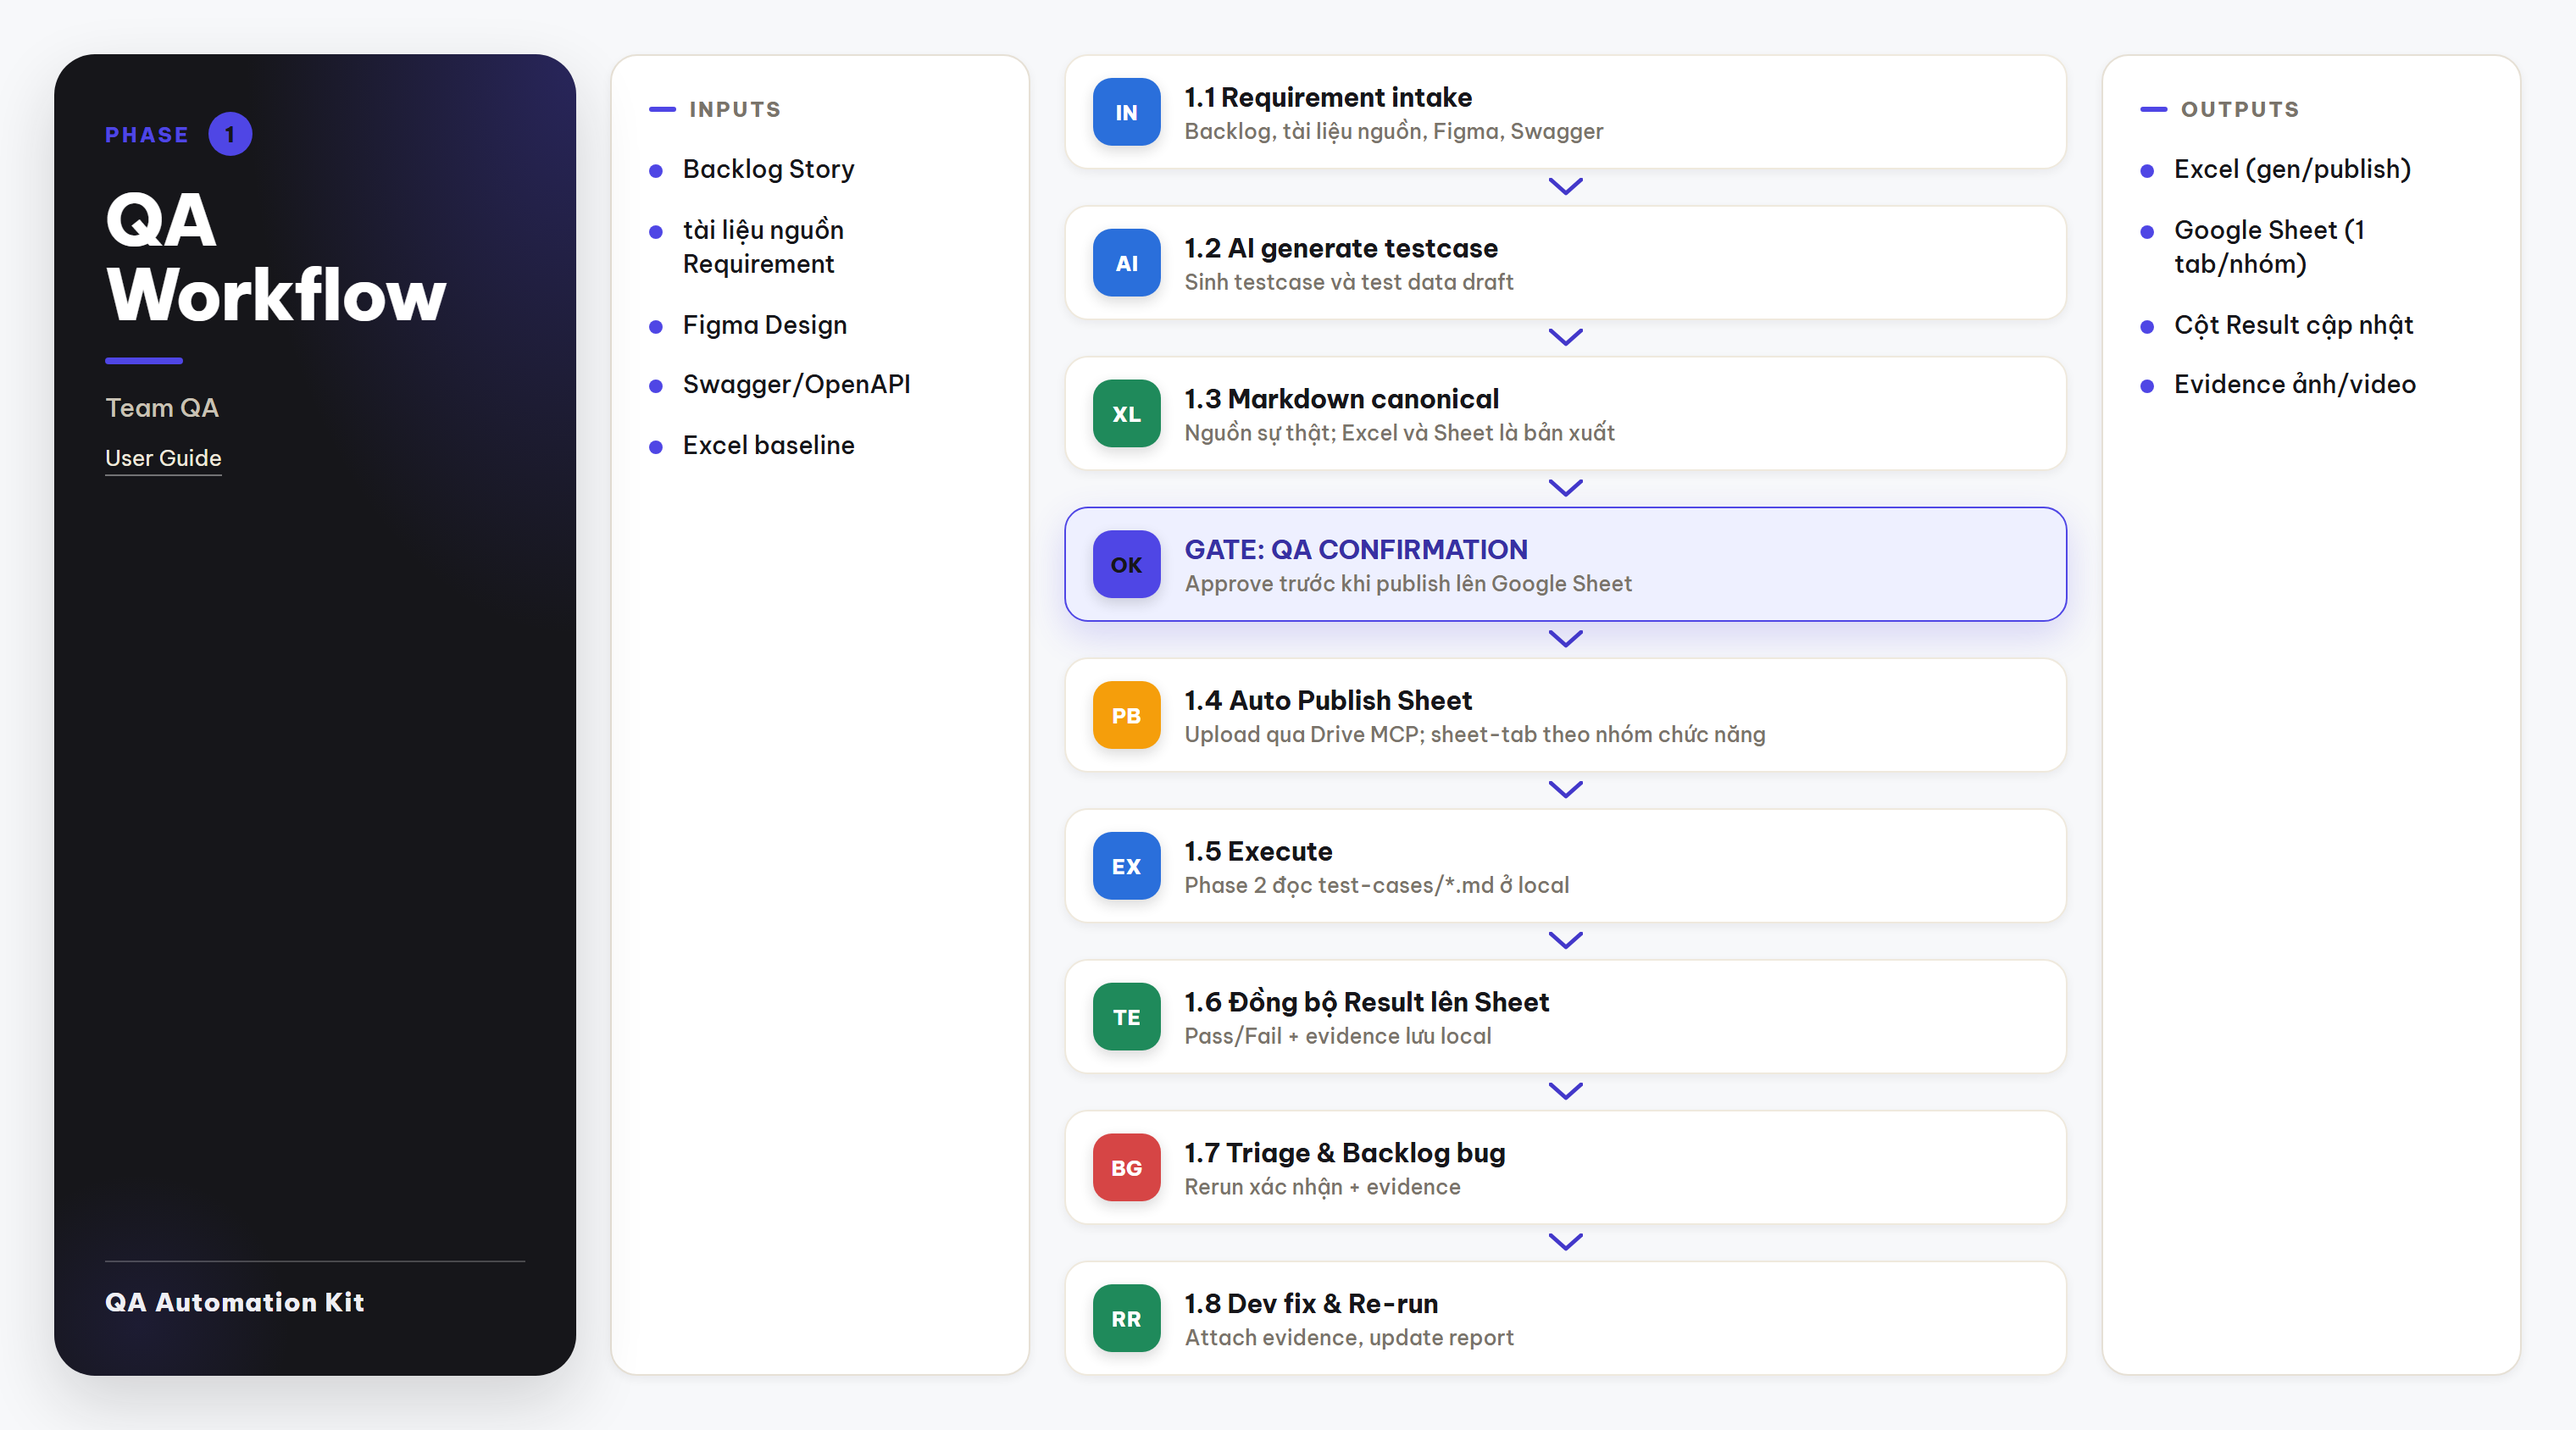
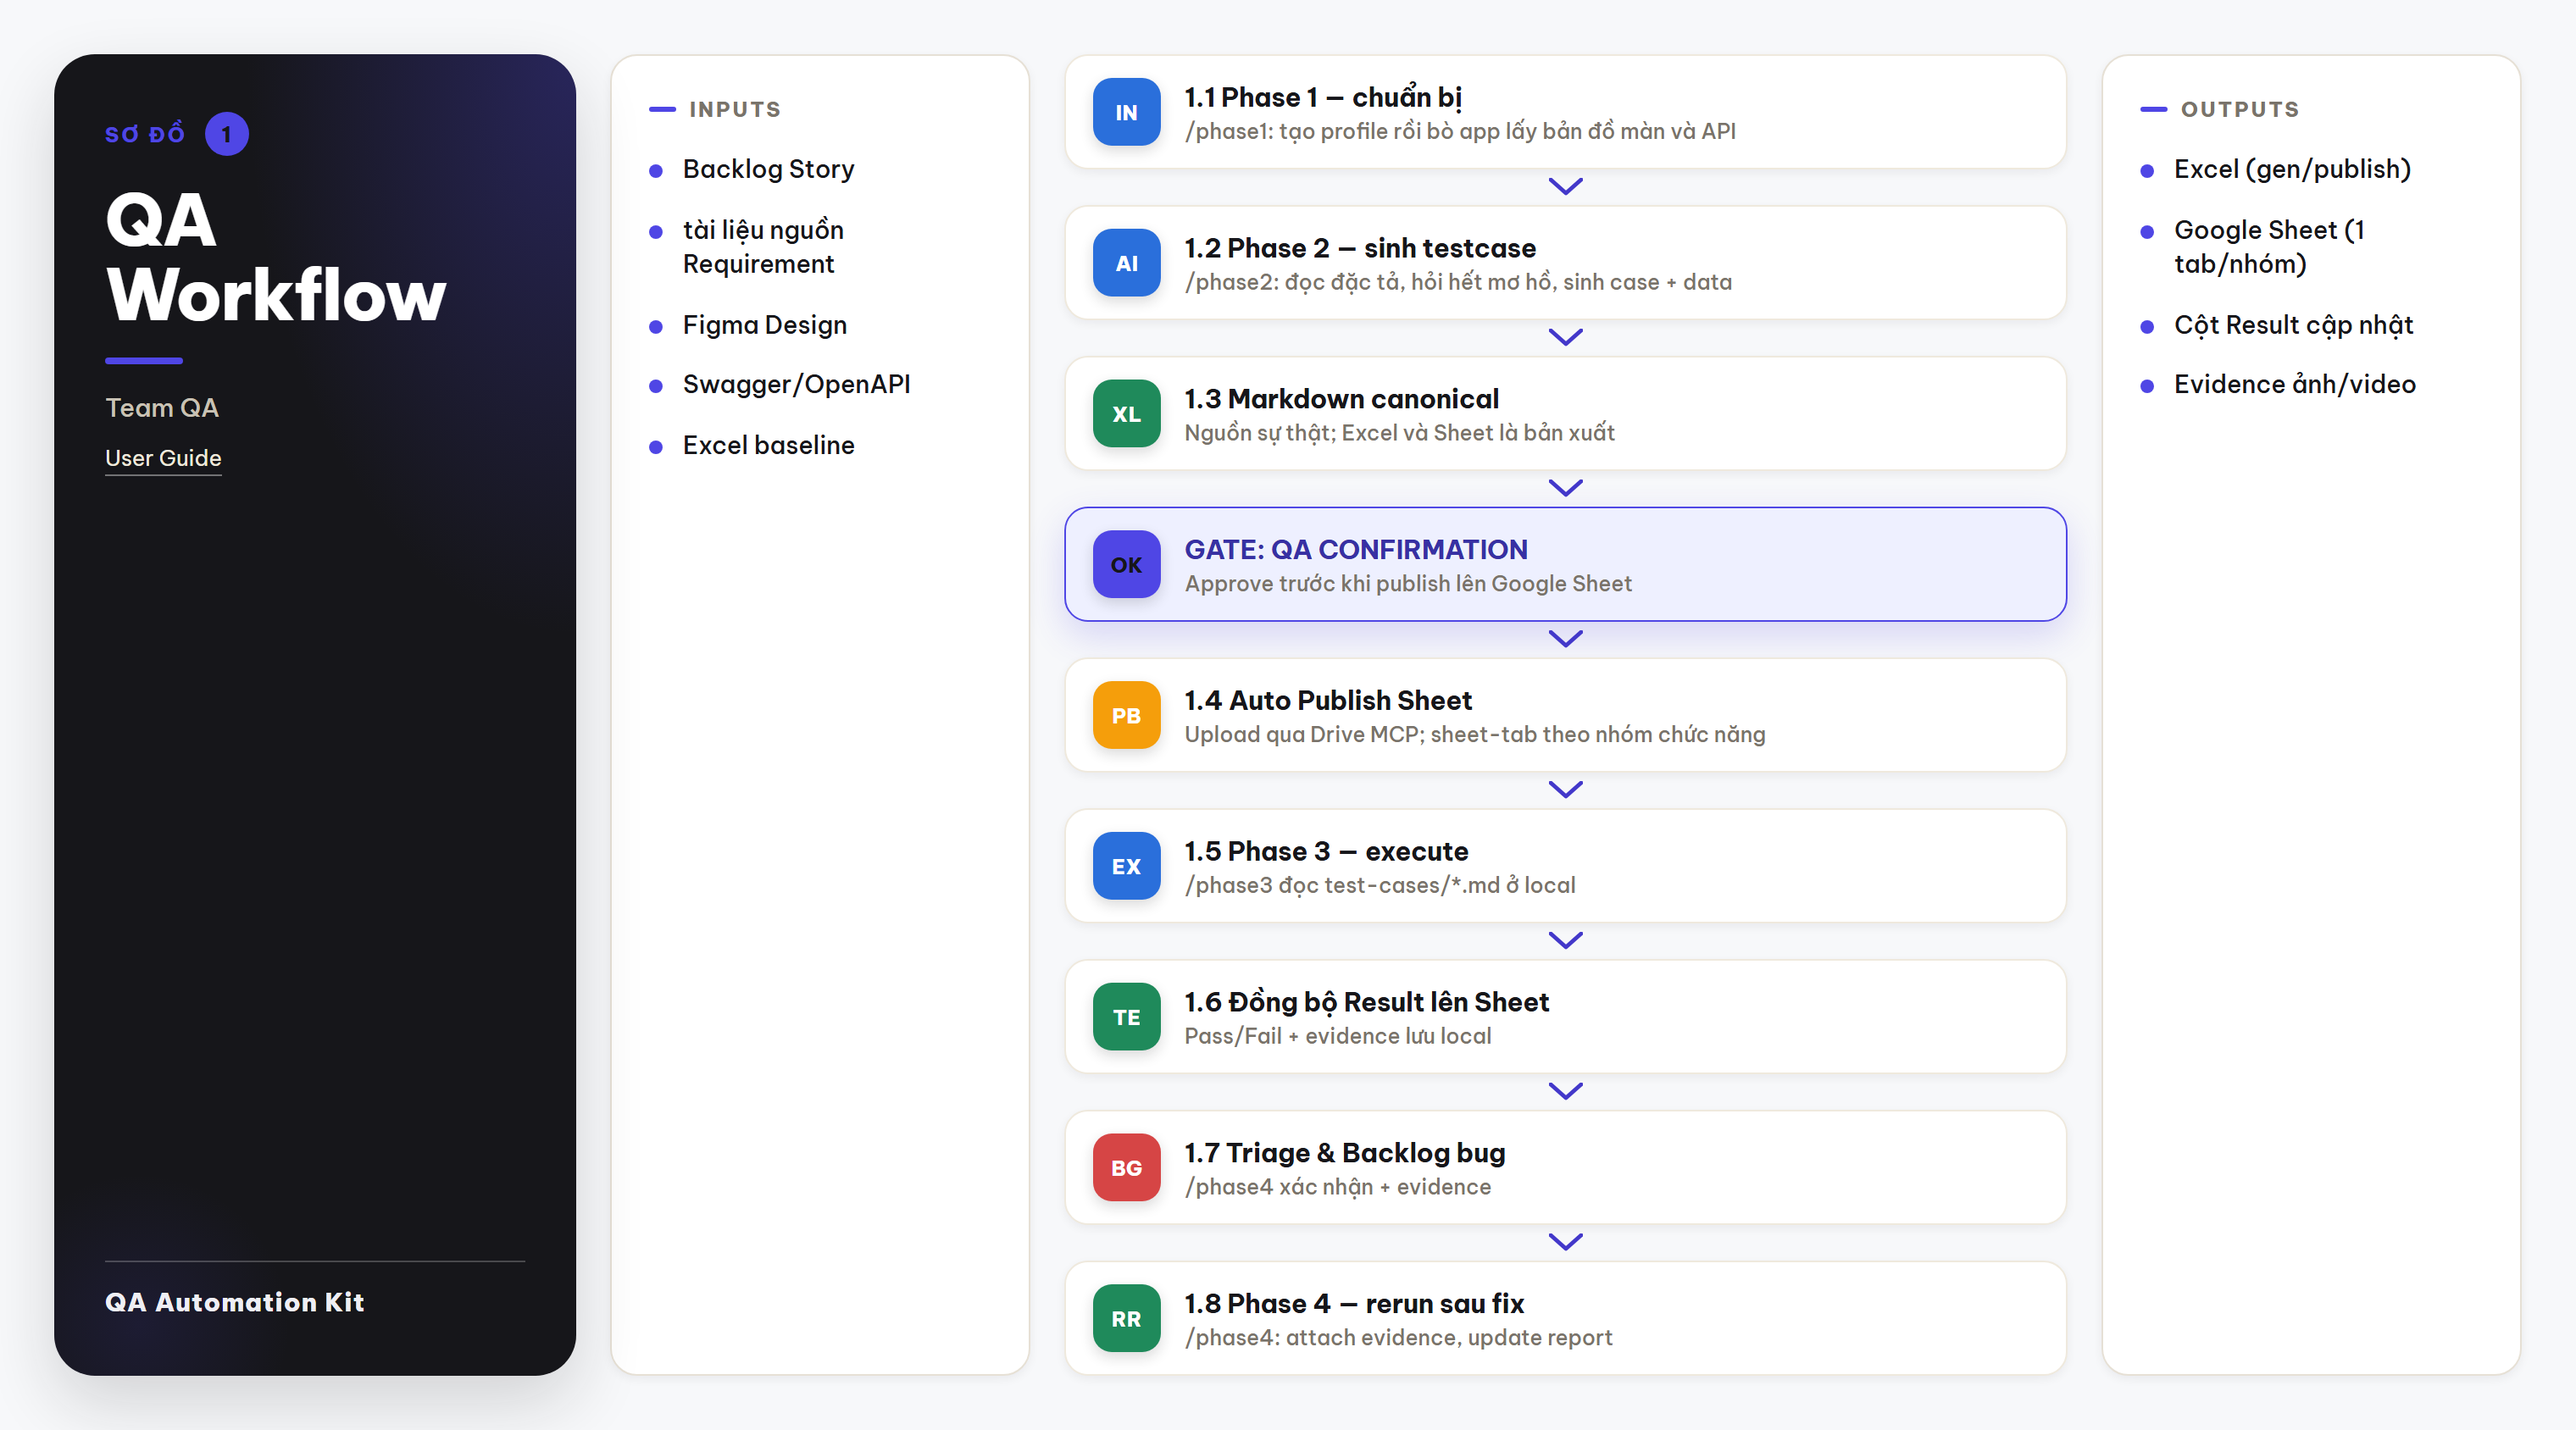
fix(README, ảnh): bốn cụm và chín sơ đồ còn dạy mô hình phase CŨ
Chủ dự án soi lại README và nói "còn sai nhiều" — đúng. Mọi luật thay chuỗi của
đợt đánh số lại đều khoá theo TÊN LỆNH hoặc theo đường dẫn CÓ TIỀN TỐ, nên chúng
cố ý không chạm tới hai thứ: NHÃN VĂN XUÔI, và TÊN THƯ MỤC TRẦN. Phần sai còn lại
nằm gọn trong đúng hai thứ đó.

README — bốn cụm

- Sơ đồ Kiến trúc vẫn vẽ `Bước 0 → Phase 1 → Phase 2 → Rerun`.
- Bảng lớp cùng nhãn cũ.
- Cây thư mục: `workflows/` còn ghi `phase1_* · phase2_* · rerun_*`; `skills/` ghi
  26 trong khi đếm thật 28.
- Cây thư mục `prompt_templates/`: ba file `01_run_*` bị liệt ở GỐC (chúng nằm
  trong thư mục phase), nhãn "điểm vào Phase 1/2" sai, và hai dòng `phase1/`,
  `phase2/` còn đánh số cũ kèm `02b`.

Đã đối chiếu từng dòng với cây thật, và soát mọi đường dẫn README nhắc tới — tất cả
đều tồn tại.

ẢNH USER_GUIDE — chín sơ đồ

Lượt trước tôi mới sửa đúng MỘT sơ đồ (Prompt Map), vì nó chứa tên lệnh nên script
bắt được. Tám sơ đồ còn lại chỉ có nhãn và số bước, nên không máy nào thấy:
`library:drift` không đọc PNG, `writing:lint` không đọc `.mjs`.

- `main-flow`: bốn bước đầu nay gọi đúng tên phase và lệnh của nó.
- `phase1-quality-gate.png` → `phase2-quality-gate.png`, bước 1.x → 2.x. Sơ đồ nói
  về SINH TESTCASE, nay là phase 2 — giữ tên cũ là để nguyên một cái bẫy.
- `phase2-execution-loop.png` → `phase3-execution-loop.png`, bước 2.x → 3.x.
- Icon `P1`/`P2` trong Prompt Map lệch phase sau khi đổi; sửa thành `P2`/`P3`.
[…]

diff --git a/README.md b/README.md
@@ -49,11 +49,11 @@ case.
 ```mermaid
 flowchart TD
     Kit(["Test Automation Kit"])
-    Kit --> B0["Bước 0<br/>khám phá hệ thống"]
-    B0 --> P1
-    Kit --> P1["Phase 1<br/>sinh testcase + Excel"]
-    Kit --> P2["Phase 2<br/>execute automation"]
-    Kit --> RR["Rerun<br/>verify bug đã fix"]
+    Kit --> P1["Phase 1 · /phase1<br/>profile + khám phá hệ thống"]
+    P1 --> P2
+    Kit --> P2["Phase 2 · /phase2<br/>sinh testcase + Excel"]
+    Kit --> P3["Phase 3 · /phase3<br/>execute automation"]
+    Kit --> P4["Phase 4 · /phase4<br/>verify bug đã fix"]
     Kit --> SS["Shared Services<br/>Google Sheet, Backlog, Excel, config"]
     Kit --> PR["Partial Rerun<br/>xử lý đổi tài liệu"]
     Kit --> OUT["Outputs<br/>artifact theo task"]
@@ -61,11 +61,11 @@ flowchart TD
 
 | Lớp | Làm gì |
 |---|---|
-| **Bước 0** | Bò app bằng script tất định, trả bản đồ màn, danh mục API, vùng mù tài liệu. Mẫu số coverage của Phase 1 lấy từ đây, nên màn không có trong tài liệu vẫn vào phạm vi. Mọi bản ghi là `observed`, không phải oracle |
-| **Phase 1** | Đọc requirement, sinh testcase Markdown canonical, xuất Excel, chấm coverage |
-| **Publish** | Sau khi QA duyệt, đẩy Excel lên Google Sheet qua Drive MCP |
-| **Phase 2** | Dựng tiền điều kiện qua setup layer, execute Playwright, thu evidence, đồng bộ cột `Result` |
-| **Rerun** | Chạy lại case của bug đã fix. Không dùng để đồng bộ tài liệu mới |
+| **Phase 1** · `/phase1` | Tạo profile task, rồi bò app bằng script tất định: bản đồ màn, danh mục API, vùng mù tài liệu. Mẫu số coverage của Phase 2 lấy từ đây, nên màn không có trong tài liệu vẫn vào phạm vi. Mọi bản ghi là `observed`, không phải oracle |
+| **Phase 2** · `/phase2` | Đọc requirement, sinh testcase Markdown canonical, xuất Excel, chấm coverage |
+| **Publish** · `/publish` | Sau khi QA duyệt, đẩy Excel lên Google Sheet qua Drive MCP |
+| **Phase 3** · `/phase3` | Dựng tiền điều kiện qua setup layer, execute Playwright, thu evidence, đồng bộ cột `Result` |
+| **Phase 4** · `/phase4` | Chạy lại case của bug đã fix. Không dùng để đồng bộ tài liệu mới |
 | **Partial Rerun** | Nhánh phụ xử lý tài liệu đổi. Xoá nhánh này thì luồng chính vẫn chạy |
 | **Setup Layer** | `tests/support/setup/`: factory, hook, fixture, mock, cleanup, contract. Không dựng state bằng DB |
 
@@ -81,16 +81,18 @@ test-automation-kit/
 │   │                        GATES.md (danh mục 169 máy gác, tự sinh)
 │   │                        db.conventions.json  quy ước DB + bản đồ cột ↔ nhãn theo màn
 │   │                        locators.schema.json schema cho knowledge/locators/
-│   ├── workflows/           phase1_* · phase2_* · rerun_* — mỗi flow 1 file entry + các bước
-│   ├── skills/              26 skill theo vai trò; INDEX.md là danh mục (tự sinh)
+│   ├── workflows/           16 file đánh số PHẲNG 01–16 theo đúng thứ tự chạy, không mang tiền tố phase
+│   ├── skills/              28 skill theo vai trò; INDEX.md là danh mục (tự sinh)
 │   └── rules/               core_rules · playwright_fe · playwright_api · locator
-├── prompt_templates/
-│   ├── 01_run_phase2.md      điểm vào Phase 1
-│   ├── 01_run_phase3.md      điểm vào Phase 2
-│   ├── 01_run_phase4.md
-│   ├── phase1/              01 chuẩn bị → 02 sinh testcase → 02b định dạng → 03 test data → 04 publish
-│   │   └── dimensions/      22 chương CHIỀU coverage — mở đúng chiều task cần, không nạp cả bộ
-│   └── phase2/              04 execute FE → 05 execute API → 06 triage → 07 flaky → 08 log bug
+├── prompt_templates/        mỗi phase MỘT thư mục; file 01_ là điểm vào. Không có phase1/ vì
+│                            /phase1 chạy bằng script, không có prompt template nào
+│   ├── phase2/              01 điểm vào → 02 chuẩn bị → 03 sinh testcase → 04 định dạng →
+│   │                        05 test data → 06 publish → 07 manual → 08 cross-module
+│   │   └── dimensions/      22 chương CHIỀU coverage. Số là MÃ MỤC §N trong 03_gen_testcases.md,
+│   │                        KHÔNG phải thứ tự — mở đúng chiều task cần, không nạp cả bộ
+│   ├── phase3/              01 điểm vào → 02 execute FE → 03 lite → 04 execute API →
+│   │                        05 triage → 06 flaky → 07 log bug
+│   └── phase4/              01 điểm vào (rerun)
 ├── partial-rerun/           nhánh phụ khi requirement đổi: prepare review → apply approved
 ├── exploratory/             nhánh phụ never-auto, phiên dò rủi ro có charter
 ├── manual-run/              nhánh phụ never-auto, chạy tay case khai [manual]

diff --git a/USER_GUIDE.md b/USER_GUIDE.md
@@ -227,7 +227,7 @@ Mỗi ô `Tiền điều kiện` phải mang tag `[<method>]` — `api`, `factor
 
 ### 3.3 Review bộ case: cửa quyết định
 
-![Review chất lượng sau khi sinh case](docs/user-guide-images/phase1-quality-gate.png)
+![Review chất lượng sau khi sinh case](docs/user-guide-images/phase2-quality-gate.png)
 
 Mở: `task.md`, `reports/phase1-summary.md`, `test-cases/*.md`
 
@@ -258,7 +258,7 @@ Coverage cao mà còn gap Critical/High thì **không PASS**.
 
 ### 3.4 `/phase3` — execute
 
-![Vòng execute và phân tích kết quả](docs/user-guide-images/phase2-execution-loop.png)
+![Vòng execute và phân tích kết quả](docs/user-guide-images/phase3-execution-loop.png)
 
 **Chạy:**
 
